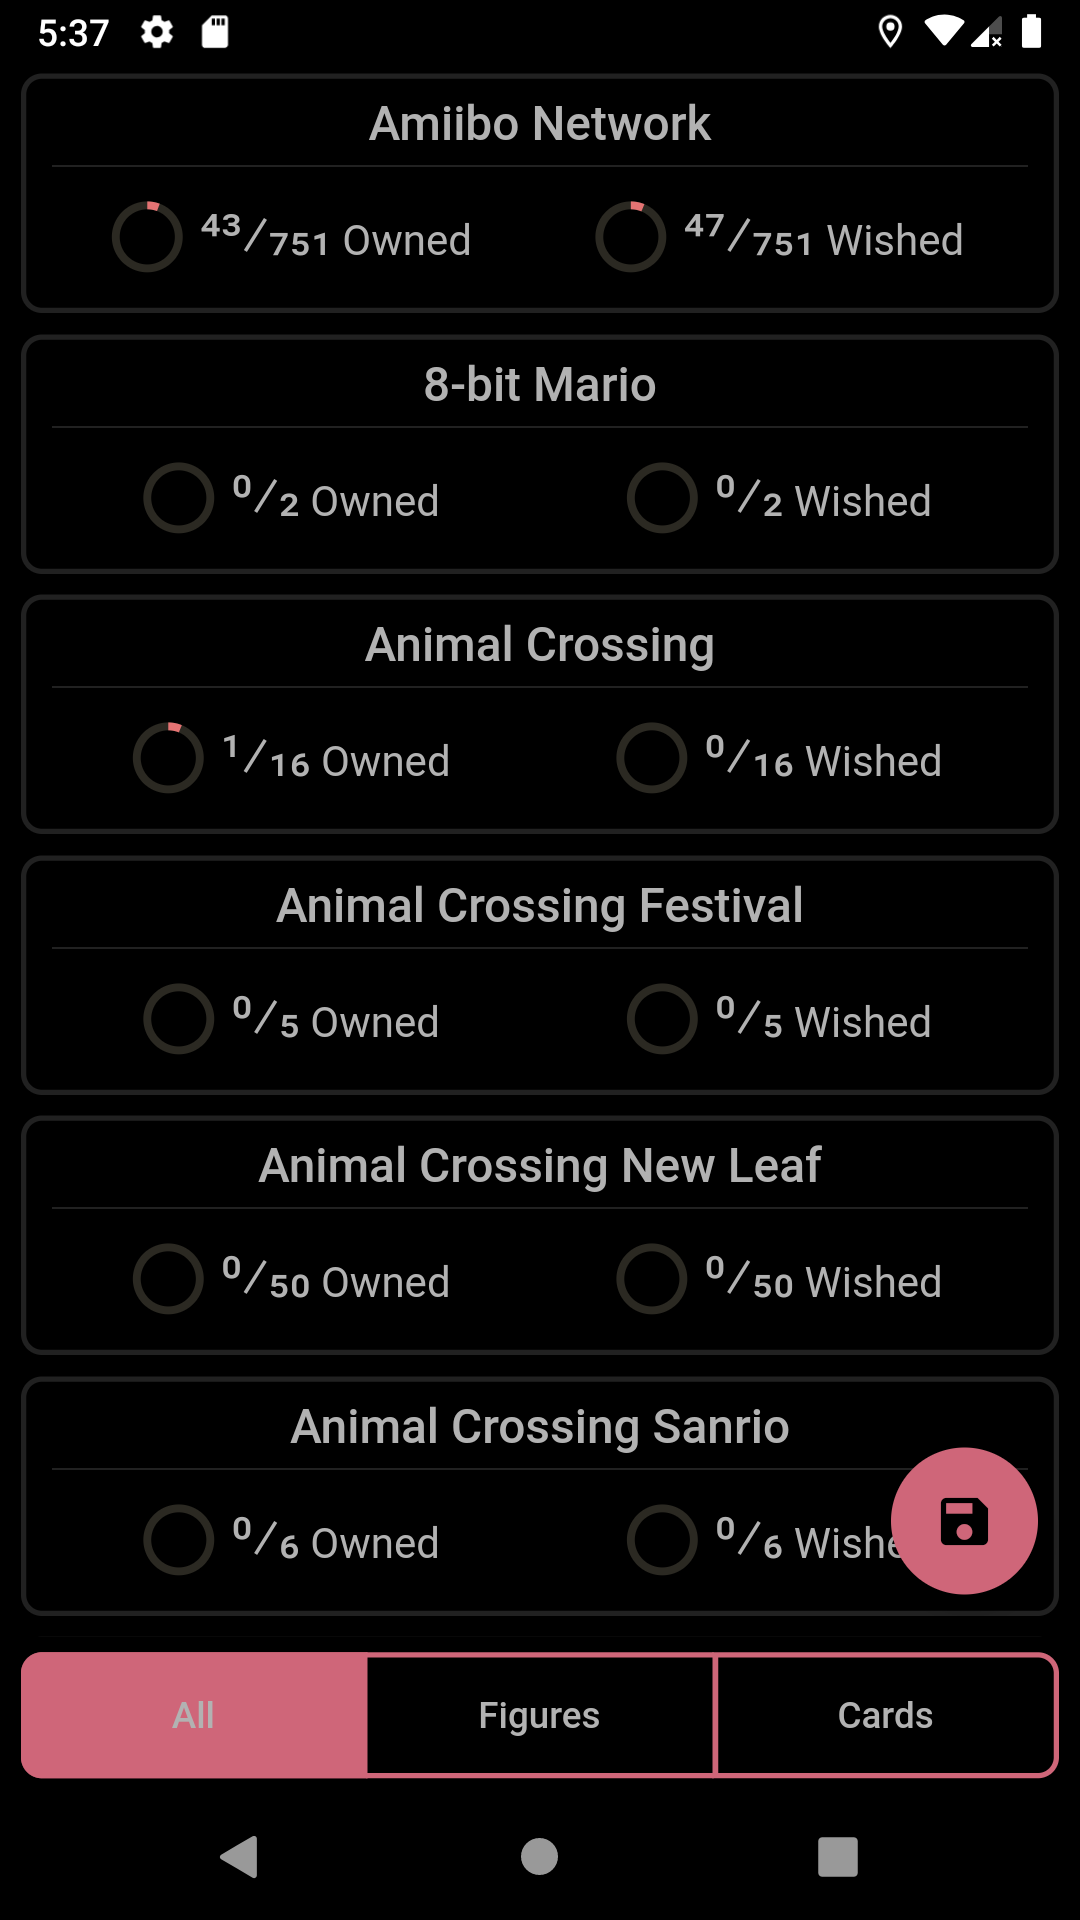
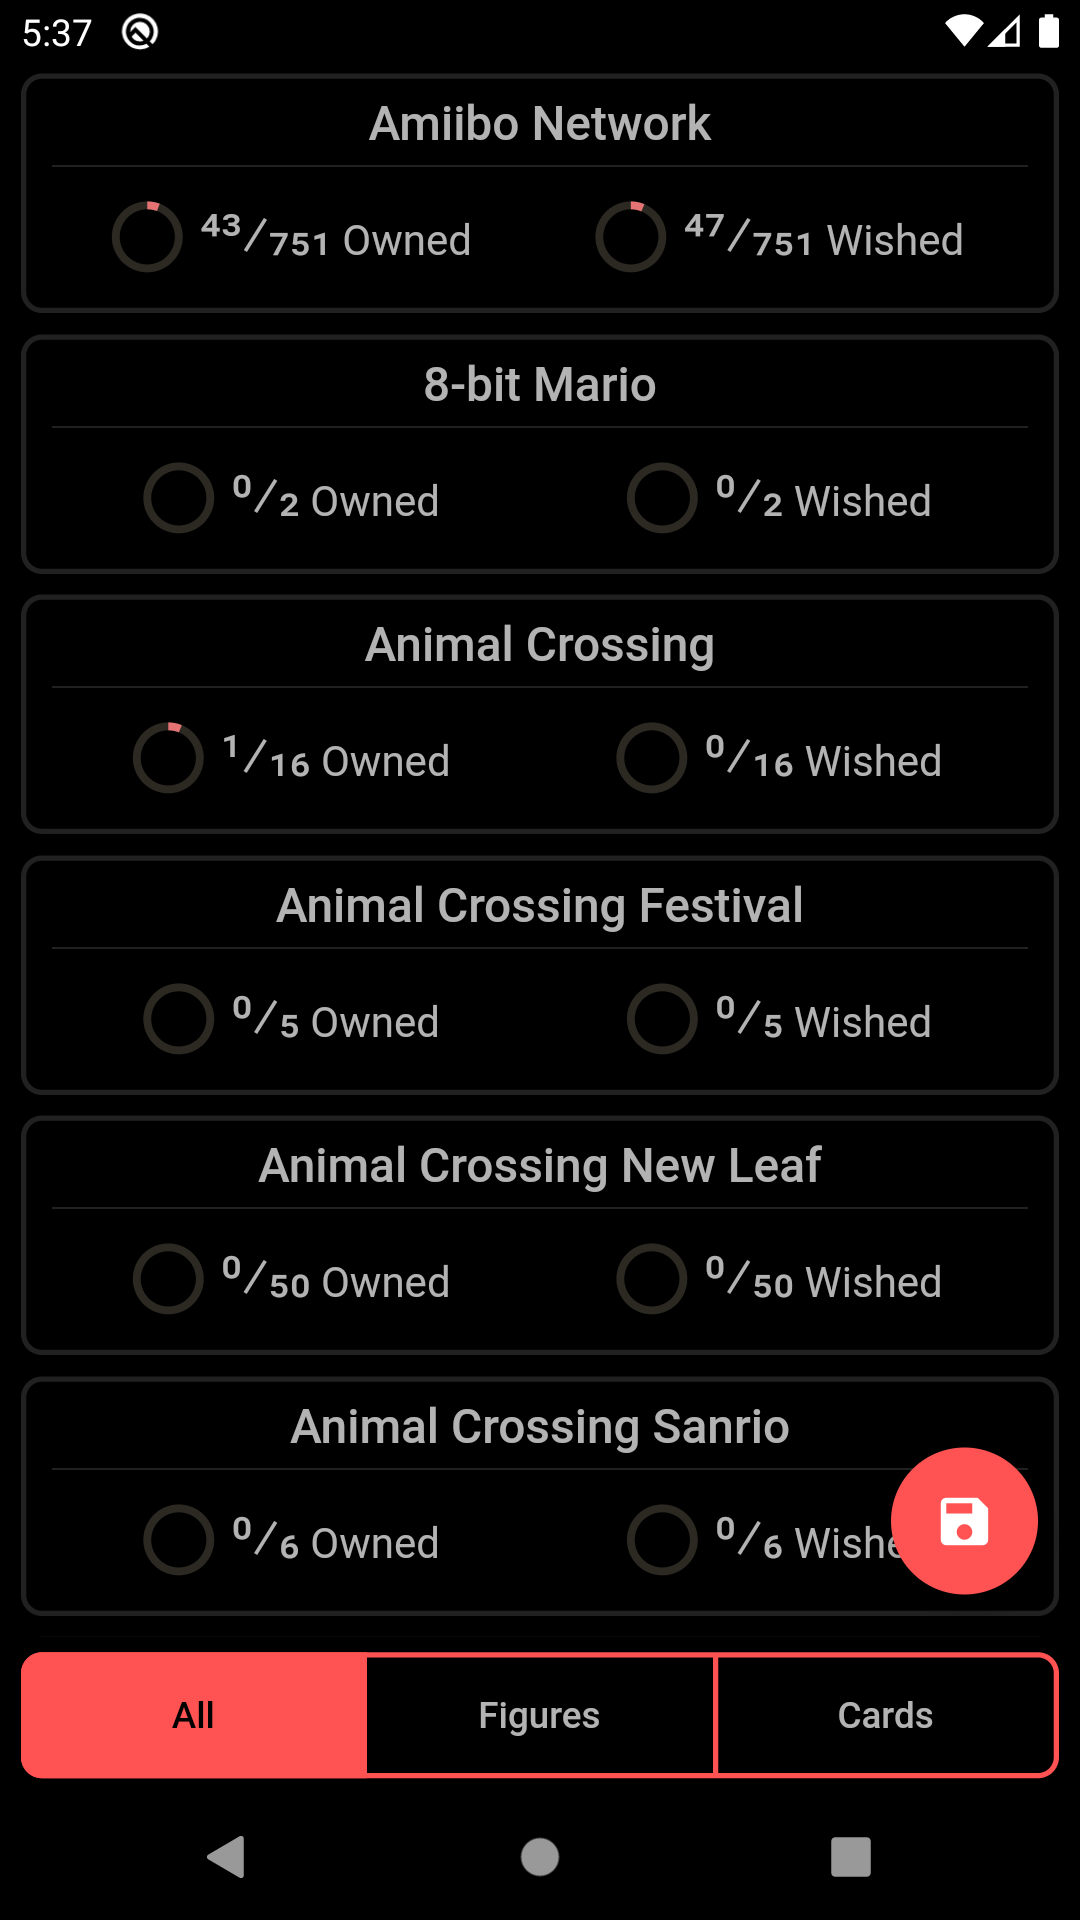
- Updated screenshots, version 1.3.1 changelog.md - Uncommented compute to convert entity from json in settings

diff --git a/lib/screen/settings_screen.dart b/lib/screen/settings_screen.dart
@@ -542,7 +542,7 @@ class _BottomBarState extends State<BottomBar> {
         if(map == null)
           openSnackBar(translate.errorImporting);
         else{
-          AmiiboLocalDB amiibos = entityFromMap(map);///await compute(entityFromMap, map);
+          AmiiboLocalDB amiibos = await compute(entityFromMap, map);
           await _service.update(amiibos);
           amiiboProvider.refreshPagination();
           openSnackBar(translate.successImport);

diff --git a/assets/text/Cambios.md b/assets/text/Cambios.md
@@ -1,3 +1,8 @@
+##Version 1.3.1
+- Actualización de temas oscuros cambiando los colores acentuados a partir del tema claro favorito
+- Color del texto claro u oscuro dependiendo del color del fondo donde se muestra
+- Múltiples correcciones
+
 ## Versión 1.3.0
 - Localización de idiomas (Inglés y Español)
 - Notifaciones cuando exportas tu colección

diff --git a/assets/text/Changelog.md b/assets/text/Changelog.md
@@ -1,3 +1,8 @@
+## Version 1.3.1
+- Updated Dark Theme to share accent colors based on light theme selected
+- Changed text color based on the background color where is displayed
+- Fixed minor bugs
+
 ## Version 1.3.0
 - Localization updates (English and Spanish)
 - Notifications of exported data
